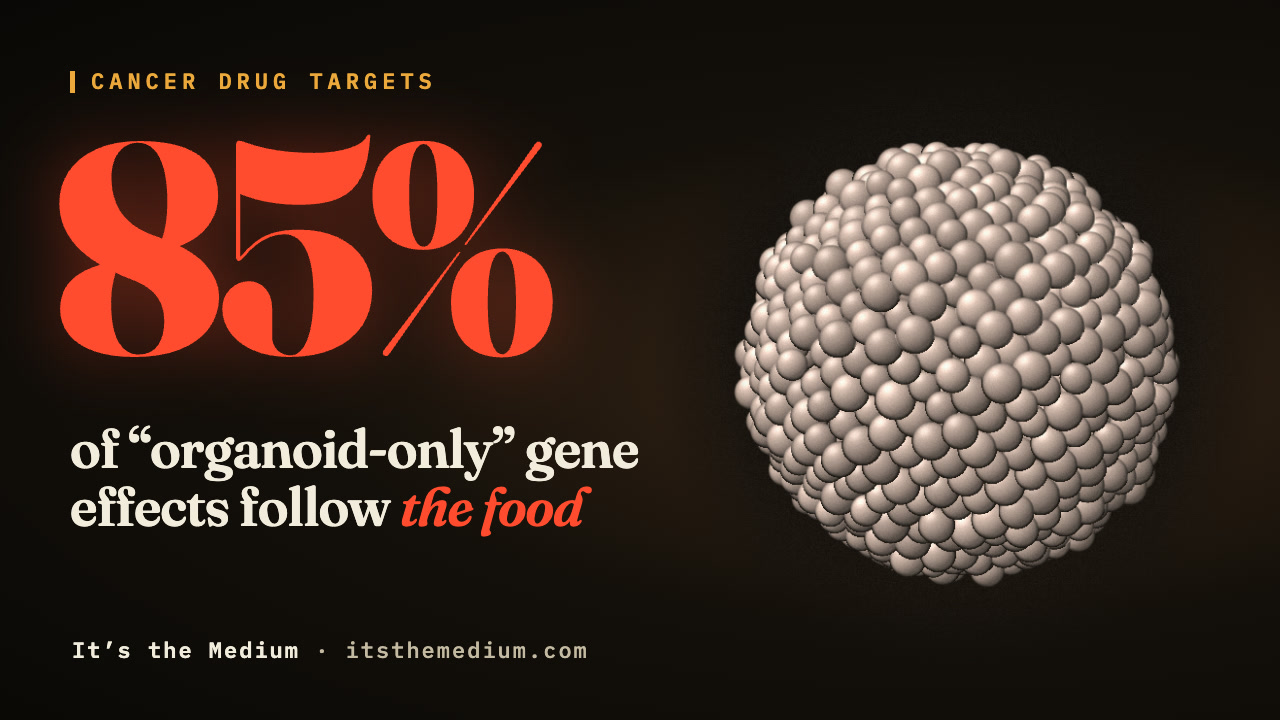
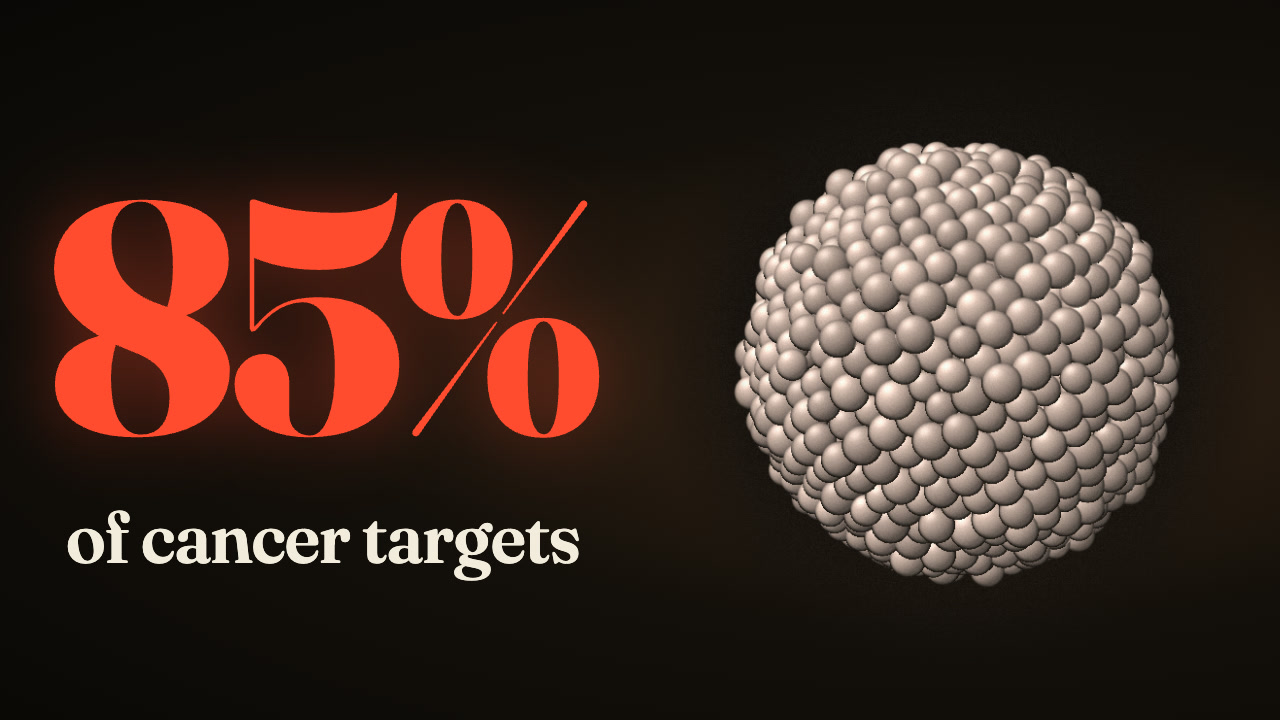
Simplify thumbnail text

diff --git a/cancer-dependency-rsi/video/thumbnail/thumb.html b/cancer-dependency-rsi/video/thumbnail/thumb.html
@@ -7,15 +7,13 @@ html,body{margin:0}
 .glow{position:absolute;right:120px;top:150px;width:420px;height:420px;border-radius:50%;background:radial-gradient(circle,rgba(255,75,46,.25),rgba(255,75,46,0) 70%)}
 .k{position:absolute;left:70px;top:66px;font:600 22px "IBM Plex Mono",monospace;letter-spacing:5px;color:#eda93c;text-transform:uppercase}
 .k i{display:inline-block;width:5px;height:22px;background:#eda93c;vertical-align:-4px;margin-right:16px}
-.n{position:absolute;left:52px;top:96px;font:800 300px/1 Fraunces,serif;letter-spacing:-12px;color:#ff4b2e;text-shadow:0 0 70px rgba(255,75,46,.4)}
-.s{position:absolute;left:70px;top:420px;width:640px;font:600 54px/1.08 Fraunces,serif;color:#f3ecdd;letter-spacing:-1px}
+.n{position:absolute;left:46px;top:150px;font:800 330px/1 Fraunces,serif;letter-spacing:-12px;color:#ff4b2e;text-shadow:0 0 70px rgba(255,75,46,.4)}
+.s{position:absolute;left:66px;top:500px;width:680px;font:600 72px/1.05 Fraunces,serif;color:#f3ecdd;letter-spacing:-1px}
 .s em{font-style:italic;color:#ff4b2e}
 .b{position:absolute;left:72px;bottom:56px;font:500 22px "IBM Plex Mono",monospace;color:#c4b9a2;letter-spacing:2px}
 .b b{color:#f3ecdd;font-weight:600}
 </style></head><body><div id="t">
 <div class="glow"></div><img src="organoid.png">
-<div class="k"><i></i>Cancer drug targets</div>
 <div class="n">85%</div>
-<div class="s">of &ldquo;organoid-only&rdquo; gene effects follow <em>the food</em></div>
-<div class="b"><b>It&rsquo;s the Medium</b> &middot; itsthemedium.com</div>
+<div class="s">of cancer targets</div>
 </div></body></html>
